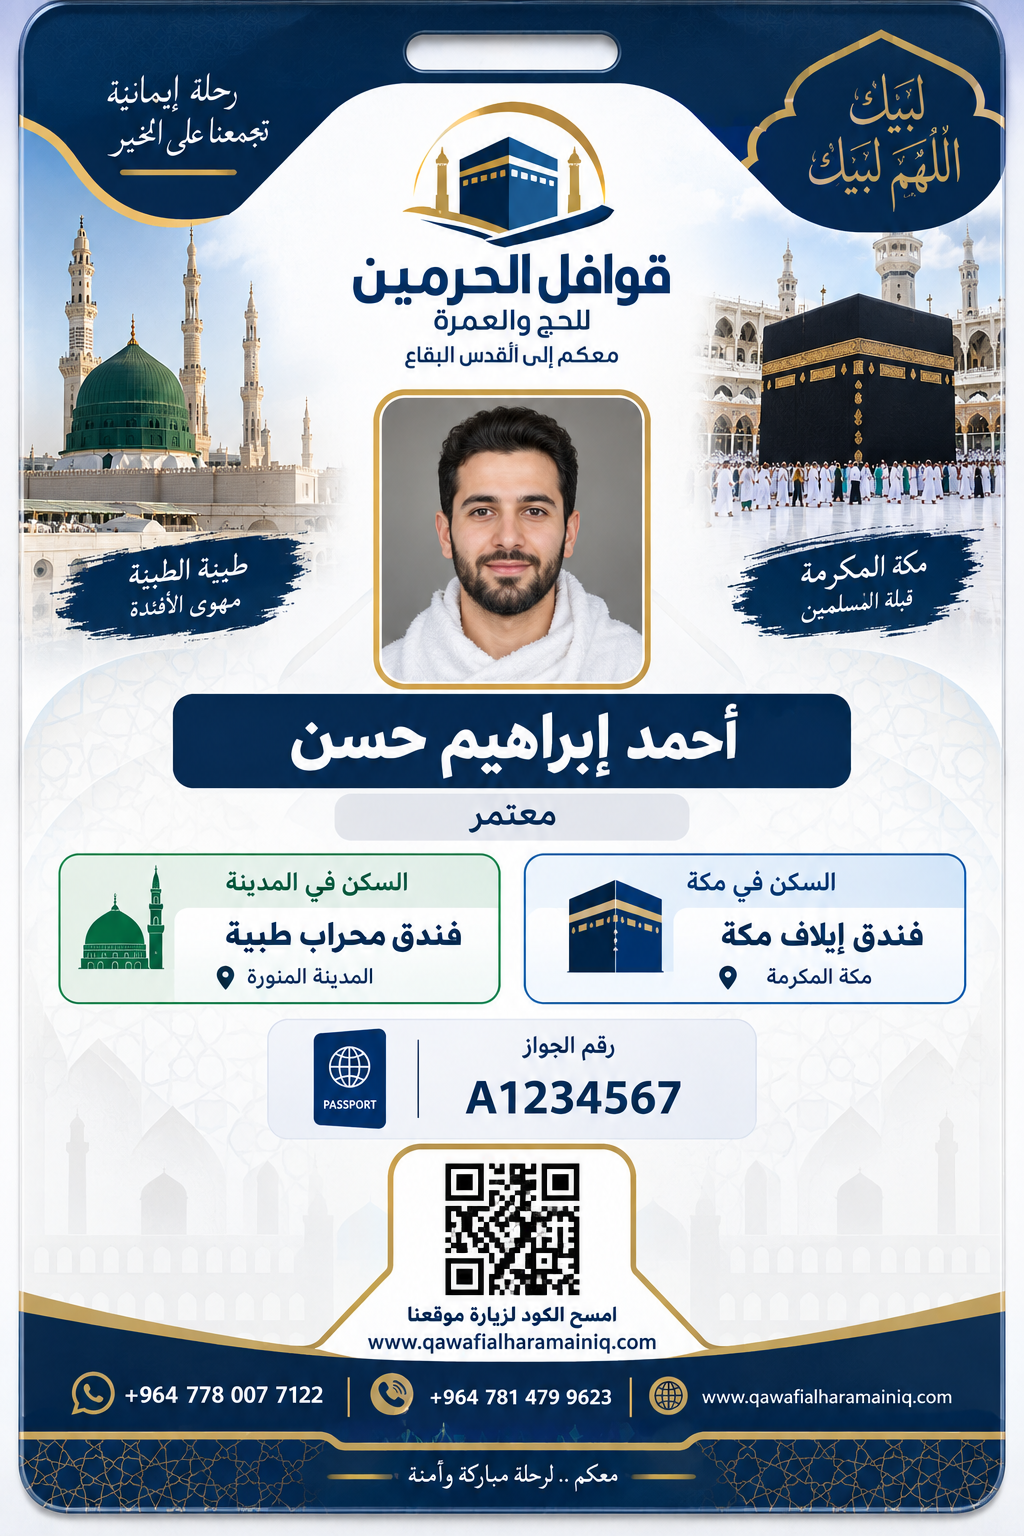
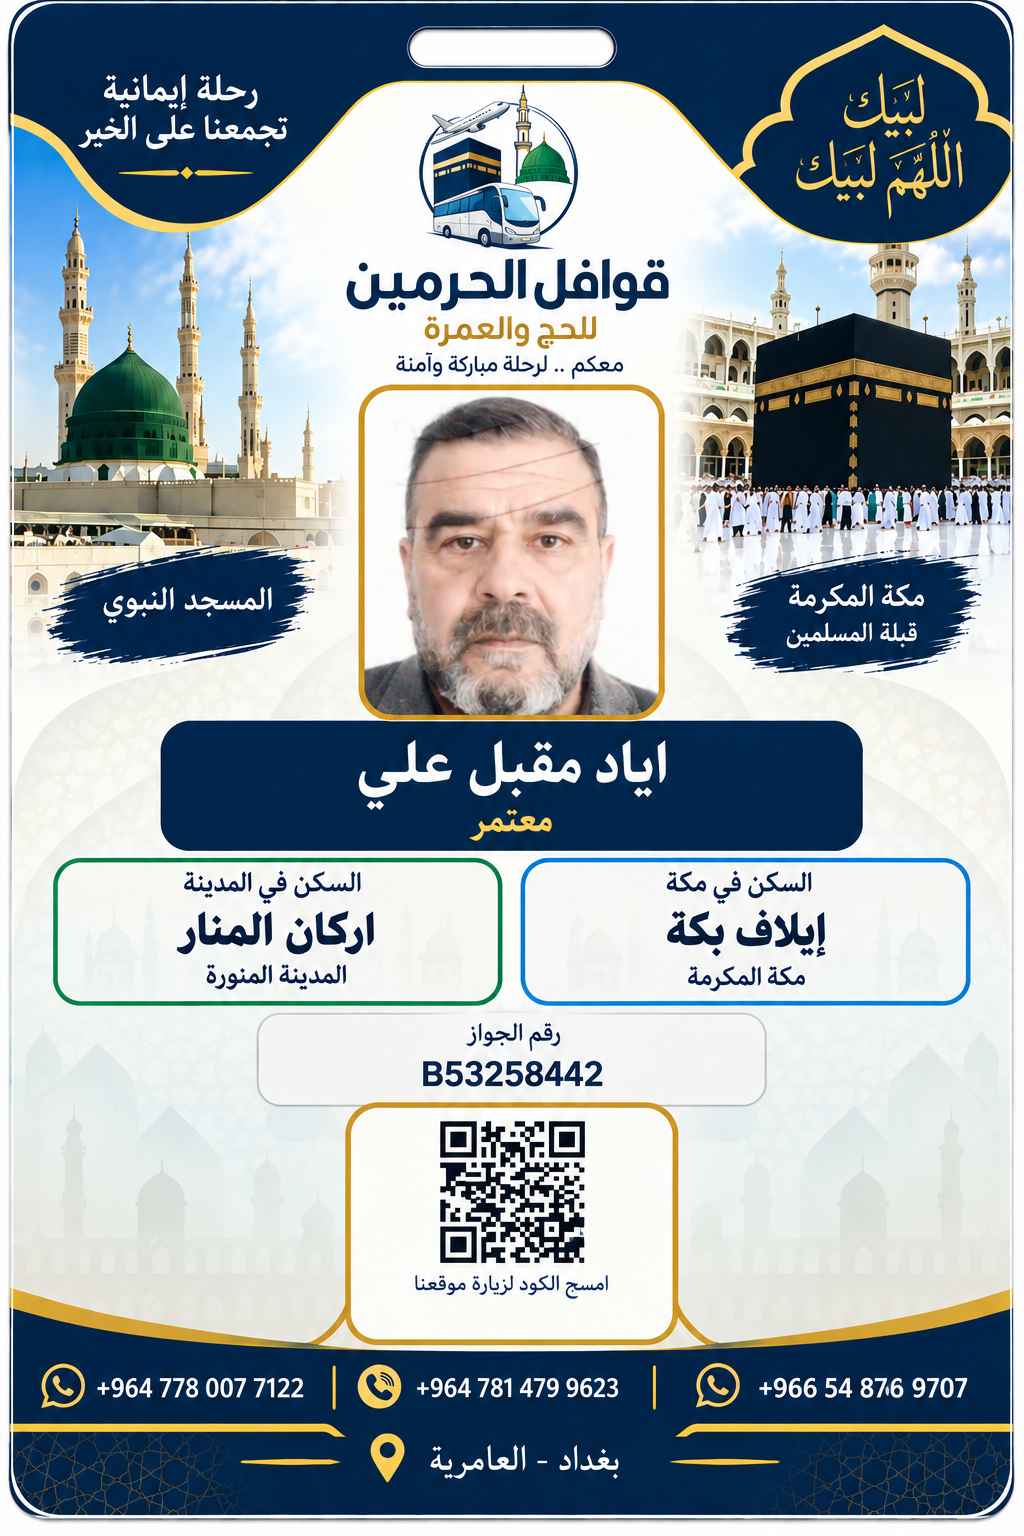
Add files via upload

diff --git a/programs.html b/programs.html
@@ -378,6 +378,7 @@ function badgeHtml(d){
  const qr='https://api.qrserver.com/v1/create-qr-code/?size=240x240&margin=8&data='+encodeURIComponent(badgeQrUrl());
  const template=new URL('badge_original.png',location.href).href;
  return `<article class="print-badge" style="background-image:url('${template}')">
+   <div class="live-logo"><img src="logo_transparent.png" alt="قوافل الحرمين"></div>
    <div class="live-photo"><img loading="eager" src="${photo}" onerror="this.style.display='none'" alt=""></div>
    <div class="live-name"><div class="live-name-text">${esc(d.name)}</div><div class="live-role">معتمر</div></div>
    <div class="live-hotel live-medina"><div class="live-hotel-title">السكن في المدينة</div><div class="live-hotel-name">${esc(d.medina)}</div><div class="live-hotel-city">المدينة المنورة</div></div>
@@ -387,7 +388,7 @@ function badgeHtml(d){
  </article>`;
 }
 function tripBadgePrintCSS(){return `
-*{box-sizing:border-box}html,body{margin:0;padding:0;background:#fff;font-family:Tahoma,Arial,sans-serif}.badge-grid{display:grid;grid-template-columns:repeat(2,70mm);grid-auto-rows:105mm;gap:7mm 8mm;padding:10mm 31mm;justify-content:center;align-content:start}.print-badge{width:70mm;height:105mm;position:relative;overflow:hidden;border:.35mm solid #c79a3b;border-radius:3.2mm;background-color:#fff;background-repeat:no-repeat;background-position:center;background-size:70mm 105mm;page-break-inside:avoid;break-inside:avoid}.live-photo{position:absolute;left:25.55mm;top:26.75mm;width:19.05mm;height:19.9mm;overflow:hidden;border-radius:2.7mm;background:#fff;z-index:10}.live-photo img{width:100%;height:100%;object-fit:cover;display:block}.live-name{position:absolute;left:11.7mm;top:47.7mm;width:46.6mm;height:9.6mm;border-radius:3mm;background:#072b49;z-index:11;text-align:center;color:#fff;padding:.85mm 1mm}.live-name-text{font-weight:900;font-size:3.45mm;line-height:1.15;white-space:nowrap;overflow:hidden;text-overflow:ellipsis}.live-role{color:#e4c878;font-weight:900;font-size:1.65mm;margin-top:.35mm}.live-hotel{position:absolute;top:57.4mm;width:30.3mm;height:10.25mm;border-radius:2.2mm;background:rgba(255,255,255,.97);z-index:11;text-align:center;padding:.55mm 1mm;overflow:hidden}.live-medina{left:4.0mm;border:.35mm solid #2b9b62}.live-makkah{right:4.0mm;border:.35mm solid #3285c7}.live-hotel-title{font-size:1.35mm;font-weight:700;line-height:1.1;color:#234}.live-hotel-name{font-size:2.05mm;font-weight:900;line-height:1.2;margin-top:.5mm;white-space:nowrap;overflow:hidden;text-overflow:ellipsis;color:#12395a}.live-hotel-city{font-size:1.15mm;font-weight:700;margin-top:.3mm;color:#466}.live-passport{position:absolute;left:18.2mm;top:67.8mm;width:33.6mm;height:8.1mm;border:.3mm solid #d7e0e6;border-radius:1.8mm;background:rgba(246,248,250,.98);z-index:11;text-align:center;padding:1.1mm .7mm}.live-passport span{display:block;color:#0c3b63;font-size:1.25mm;font-weight:700;line-height:1}.live-passport b{display:block;font-size:2.25mm;font-weight:900;direction:ltr;line-height:1.25;margin-top:.7mm;color:#072b49}.live-qr{position:absolute;left:50%;transform:translateX(-50%);top:75.0mm;width:24mm;height:17.4mm;background:#fff;border:.5mm solid #c79a3b;border-radius:2.4mm;z-index:12;text-align:center;padding:.45mm}.live-qr img{width:10.5mm;height:10.5mm;display:block;margin:0 auto .15mm;background:#fff}.live-qr b{font-size:.95mm;display:block;line-height:1.05;color:#072b49}.live-qr small{display:block;font-size:.8mm;line-height:1;margin-top:.25mm;color:#072b49;white-space:nowrap}@page{size:A4 portrait;margin:0}@media print{html,body{width:210mm;min-height:297mm}.badge-grid{padding:10mm 31mm;gap:7mm 8mm;-webkit-print-color-adjust:exact;print-color-adjust:exact}.print-badge{-webkit-print-color-adjust:exact;print-color-adjust:exact;background-color:#fff!important}}
+*{box-sizing:border-box}html,body{margin:0;padding:0;background:#fff;font-family:Tahoma,Arial,sans-serif}.badge-grid{display:grid;grid-template-columns:repeat(2,70mm);grid-auto-rows:105mm;gap:7mm 8mm;padding:10mm 31mm;justify-content:center;align-content:start}.print-badge{width:70mm;height:105mm;position:relative;overflow:hidden;border:.35mm solid #c79a3b;border-radius:3.2mm;background-color:#fff;background-repeat:no-repeat;background-position:center;background-size:70mm 105mm;page-break-inside:avoid;break-inside:avoid}.live-logo{position:absolute;left:50%;transform:translateX(-50%);top:4.7mm;width:24mm;height:20.5mm;border-radius:5mm;background:rgba(255,255,255,.96);z-index:14;display:flex;align-items:center;justify-content:center;overflow:hidden}.live-logo img{width:20mm;height:19mm;object-fit:contain;display:block}.live-photo{position:absolute;left:25.55mm;top:26.75mm;width:19.05mm;height:19.9mm;overflow:hidden;border-radius:2.7mm;background:#fff;z-index:10}.live-photo img{width:100%;height:100%;object-fit:cover;display:block}.live-name{position:absolute;left:11.7mm;top:47.7mm;width:46.6mm;height:9.6mm;border-radius:3mm;background:#072b49;z-index:11;text-align:center;color:#fff;padding:.85mm 1mm}.live-name-text{font-weight:900;font-size:3.45mm;line-height:1.15;white-space:nowrap;overflow:hidden;text-overflow:ellipsis}.live-role{color:#e4c878;font-weight:900;font-size:1.65mm;margin-top:.35mm}.live-hotel{position:absolute;top:57.4mm;width:30.3mm;height:10.25mm;border-radius:2.2mm;background:rgba(255,255,255,.97);z-index:11;text-align:center;padding:.55mm 1mm;overflow:hidden}.live-medina{left:4.0mm;border:.35mm solid #2b9b62}.live-makkah{right:4.0mm;border:.35mm solid #3285c7}.live-hotel-title{font-size:1.35mm;font-weight:700;line-height:1.1;color:#234}.live-hotel-name{font-size:2.05mm;font-weight:900;line-height:1.2;margin-top:.5mm;white-space:nowrap;overflow:hidden;text-overflow:ellipsis;color:#12395a}.live-hotel-city{font-size:1.15mm;font-weight:700;margin-top:.3mm;color:#466}.live-passport{position:absolute;left:18.2mm;top:67.8mm;width:33.6mm;height:8.1mm;border:.3mm solid #d7e0e6;border-radius:1.8mm;background:rgba(246,248,250,.98);z-index:11;text-align:center;padding:1.1mm .7mm}.live-passport span{display:block;color:#0c3b63;font-size:1.25mm;font-weight:700;line-height:1}.live-passport b{display:block;font-size:2.25mm;font-weight:900;direction:ltr;line-height:1.25;margin-top:.7mm;color:#072b49}.live-qr{position:absolute;left:50%;transform:translateX(-50%);top:75.0mm;width:24mm;height:17.4mm;background:#fff;border:.5mm solid #c79a3b;border-radius:2.4mm;z-index:12;text-align:center;padding:.45mm}.live-qr img{width:10.5mm;height:10.5mm;display:block;margin:0 auto .15mm;background:#fff}.live-qr b{font-size:.95mm;display:block;line-height:1.05;color:#072b49}.live-qr small{display:block;font-size:.8mm;line-height:1;margin-top:.25mm;color:#072b49;white-space:nowrap}@page{size:A4 portrait;margin:0}@media print{html,body{width:210mm;min-height:297mm}.badge-grid{padding:10mm 31mm;gap:7mm 8mm;-webkit-print-color-adjust:exact;print-color-adjust:exact}.print-badge{-webkit-print-color-adjust:exact;print-color-adjust:exact;background-color:#fff!important}}
 `;}
 async function waitBadgeImages(w){const imgs=Array.from(w.document.images);await Promise.all(imgs.map(img=>new Promise(resolve=>{if(img.complete)return resolve();img.onload=img.onerror=resolve;})));}
 async function openBadgePrintWindow(cards,title){
